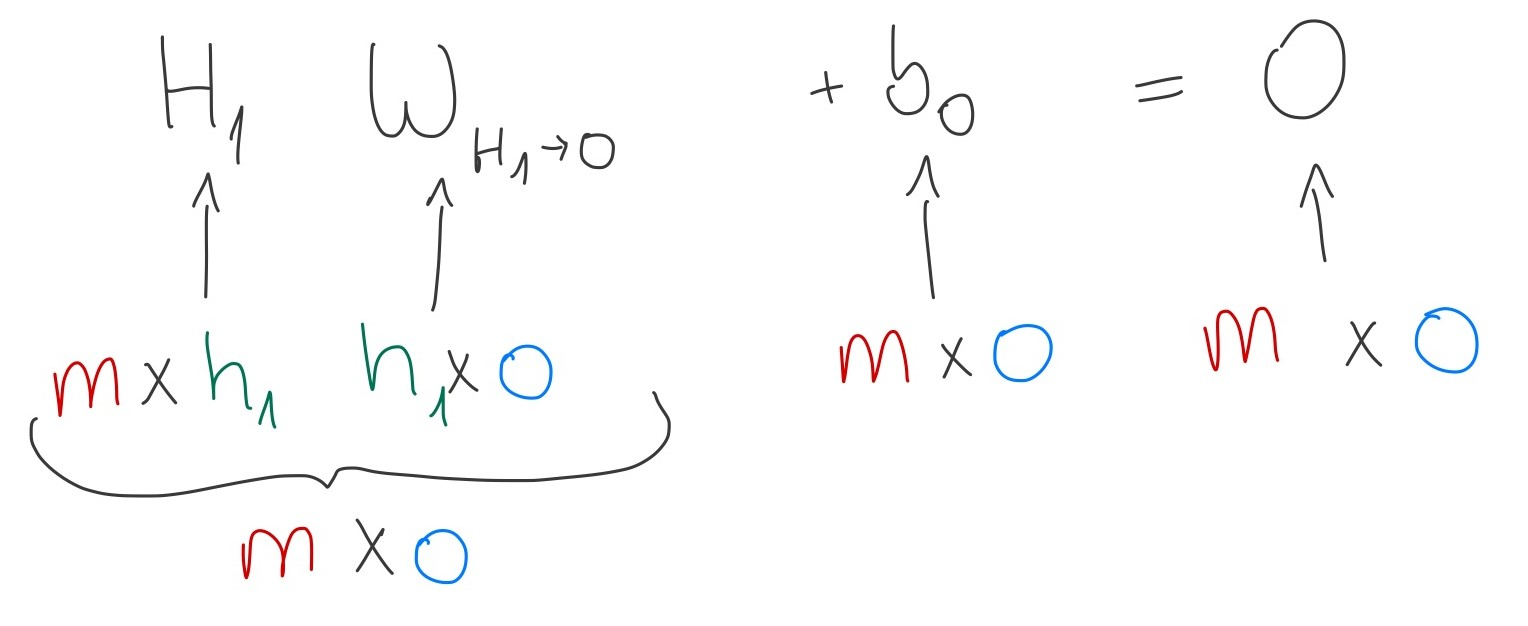
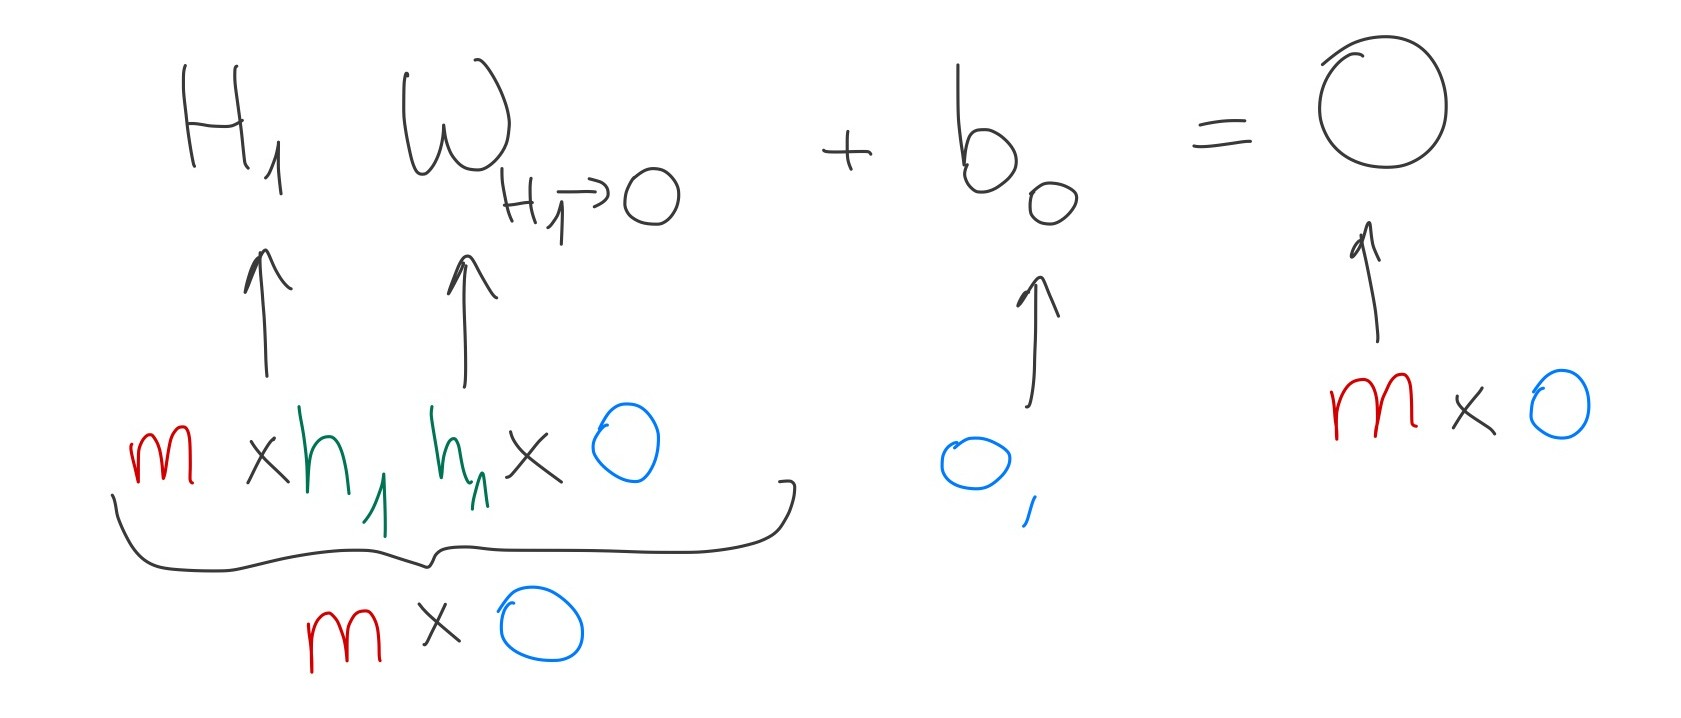
forward prop done

diff --git a/blog/templates/blog/neural_network_in_numpy.html b/blog/templates/blog/neural_network_in_numpy.html
@@ -106,8 +106,10 @@
         $$
         X \cdot W_{X \rightarrow H_1} + b_{H_1},
         $$
-        where $W_{X \rightarrow H_1}$ has the shape $n \times h_1$ and $b_{H_1}$ is the bias has the same shape as
-        $H_1$.
+        where $W_{X \rightarrow H_1}$ has the shape $n \times h_1$ and $b_{H_1}$ is the bias has the shape $[h_1,]$. Now
+        that is a strange shape to have, since strictly mathematically speaking, a shape like that doesn't exist. But
+        Numpy will perform a broadcast, we the same bias is added to all training examples, which is exactly what we
+        want. We will get into more detail about broadcasting later.
         <img id="x_w1" src="{{ url_for('static', filename='images/blog_posts/neural_network_in_numpy/x_w1.jpg') }}"
             alt="First Matrix Multiplication">
 
@@ -290,7 +292,7 @@ plt.imshow(example)
 plt.title(f"It's a {example_target}!")
 plt.show()
 </code></pre>
-        <img class="my-4 md:w-[60%] mx-auto"
+        <img class="my-4 w-[50%] md:w-[30%] mx-auto"
             src="{{ url_for('static', filename='images/blog_posts/neural_network_in_numpy/athree.png') }}"
             alt="It's a 3!">
 
@@ -303,7 +305,8 @@ plt.show()
         Doing that makes sense. If the given number is a 3 and we make the target look like this
         <pre><code>[0 0 0 1 0 0 0 0 0 0]</code></pre>then we essentially tell the NN to be as confident as possible
         that this particular example is a 3. Hopefully, that was understandable (and if not, you can <a
-            href="mailto:mail@arturgalstyan.dev">shoot me a mail</a>).
+            href="mailto:mail@arturgalstyan.dev">shoot me a mail</a> or raise an issue in <a
+            href="https://github.com/Artur-Galstyan/arturgalstyan.dev">GitHub</a>).
 
         <h1>
             Coding - Part 2: Weights and Biases
@@ -328,7 +331,9 @@ for idx, layer in enumerate(nn_architecture):
 
 return parameters
 </code></pre>
-        In the NN architecture we had also defined the activation functions, so let's also code them out.
+        Notice how the shape of the bias is initialised as <span><code>np.random.randn(n_output,)* 0.1</code></span> as
+        we mentioned earlier. This is done so that Numpy can later perform broadcasting. In the NN architecture we had
+        also defined the activation functions, so let's also code them out.
         <pre><code>def sigmoid(Z):
     return 1 / (1 + np.exp(-Z))
     
@@ -339,8 +344,90 @@ def relu(Z):
         With this, everything should be ready for coding out the forward propagation of the NN as <span
             class="text-green-500 cursor-pointer" onclick="performScroll($('#forward-propagation'), 500)">discussed
             earlier</span>.
-    </div>
 
+        <h1>Coding - Part 3: Forward Propagation</h1>
+
+        Before we start coding the forward propagation step, let's first visualise where we are so far. We have 1 NN
+        consisting of 3 layers: the input, hidden and output layer. The input layer has 784 nodes, the hidden layer has
+        16
+        nodes and the output layer has <span class='tooltip' data-tippy-content="One for each class">10 nodes</span>.
+        Then, we also have 2 sets of weights and biases (W&B): the W&Bs between the input and hidden layer and between
+        the hidden and output layer.
+
+        <img class="" src="{{ url_for('static', filename='images/blog_posts/neural_network_in_numpy/summary.jpg') }}"
+            alt="Summary">
+
+        Let's think for a moment what we would really need to compute for forward propagation. In essence, we only need
+        to compute $a_i \quad \forall \quad i=0,1,2$ (this is spoken as "$a_i$ for all $i$ equals 0, 1, 2", or in other
+        words $a_0$, $a_1$, $a_2$). We already know $a_0$, which is simply our training data $X$. Therefore, when we
+        loop over our NN architecture, we can skip the first index and simply start at 1. But that comes later. For now,
+        let's define the forward propagation for a single layer $i$. That would be
+
+        $$
+        \begin{align*}
+        z_i &= a_{i - 1} \cdot W_{i-1 \rightarrow i} + b_i \\
+        a_i &= \sigma (z_i)
+        \end{align*}
+        $$
+
+        In Python code that would be
+        <pre><code class="language-python">def forward_single_layer(a_prev, w, b, activation_function):
+    z = a_prev @ w + b
+    a = activation_function(z)
+        
+    return a, z
+</code></pre>
+
+        Now that we have written the code for a single layer, we need to write a loop, which iterates over our NN
+        architecture and applies this single layer propagation to every layer. Let's define the
+        <span><code>forward</code></span> method for that.
+        <pre><code>def forward(x, nn_parameters, nn_architecture):
+    # If our network has 3 layers, our dictionary has only 2 entries.
+    # Therefore we need to add 1 on top
+    n_layers = len(nn_architecture) + 1
+    # The memory is needed later for backpropagation
+    memory = {}
+    a = x
+
+    # We have 3 layers, 0, 1 and 2 and want to skip 0
+    # Therefore we start at 1
+    for i in range(1, n_layers):
+        a_prev = a
+        activation_function = globals()[nn_architecture[i - 1]["activation"]]
+        w = nn_parameters[f"weights {i-1}->{i}"]
+        b = nn_parameters[f"bias {i}"]
+
+        a, z = forward_single_layer(a_prev, w, b, activation_function)
+
+        memory[f"a_{i - 1}"] = a_prev
+        memory[f"z_{i}"] = z
+
+    return a, memory
+</code></pre>
+
+        Let's try out our NN, which has not been trained yet, to see what it thinks the first number is (hint: it's the
+        "3" that we saw earlier).
+        <pre><code>neural_network = [
+    {"in": 784, "out": 16, "activation": "relu"},
+    {"in": 16, "out": 10, "activation": "sigmoid"},
+]
+X_train, y_train, X_test, y_test = get_mnist()
+parameters = initialise_weights_and_biases(neural_network)
+
+a, memory = forward(X_train[0][0].reshape(1, 784), parameters, neural_network)
+print(f"I'm {np.round(np.max(a) * 100, 2)}% sure that it's a {np.argmax(a)}.")
+print(f"The number was a {np.argmax(y_train[0][0])}")
+</code></pre>
+        <img class="mx-auto my-4"
+            src="{{ url_for('static', filename='images/blog_posts/neural_network_in_numpy/nnthought.png') }}"
+            alt="NN Thought">
+
+        It seems our NN was fairly confident that it was a 6, but unfortunately, it was a 3. Now that we have the
+        forward propagation figured out and have written the code for it, it's time to tackle the actual difficult part
+        in NN: backpropagation!
+
+        <h1>Backpropagation</h1>
+    </div>
 </div>
 
 

diff --git a/static/css/output.css b/static/css/output.css
@@ -955,6 +955,10 @@ span>pre>code.hljs {
     width: 60%;
   }
 
+  .md\:w-\[30\%\]{
+    width: 30%;
+  }
+
   .md\:text-6xl{
     font-size: 3.75rem;
     line-height: 1;
